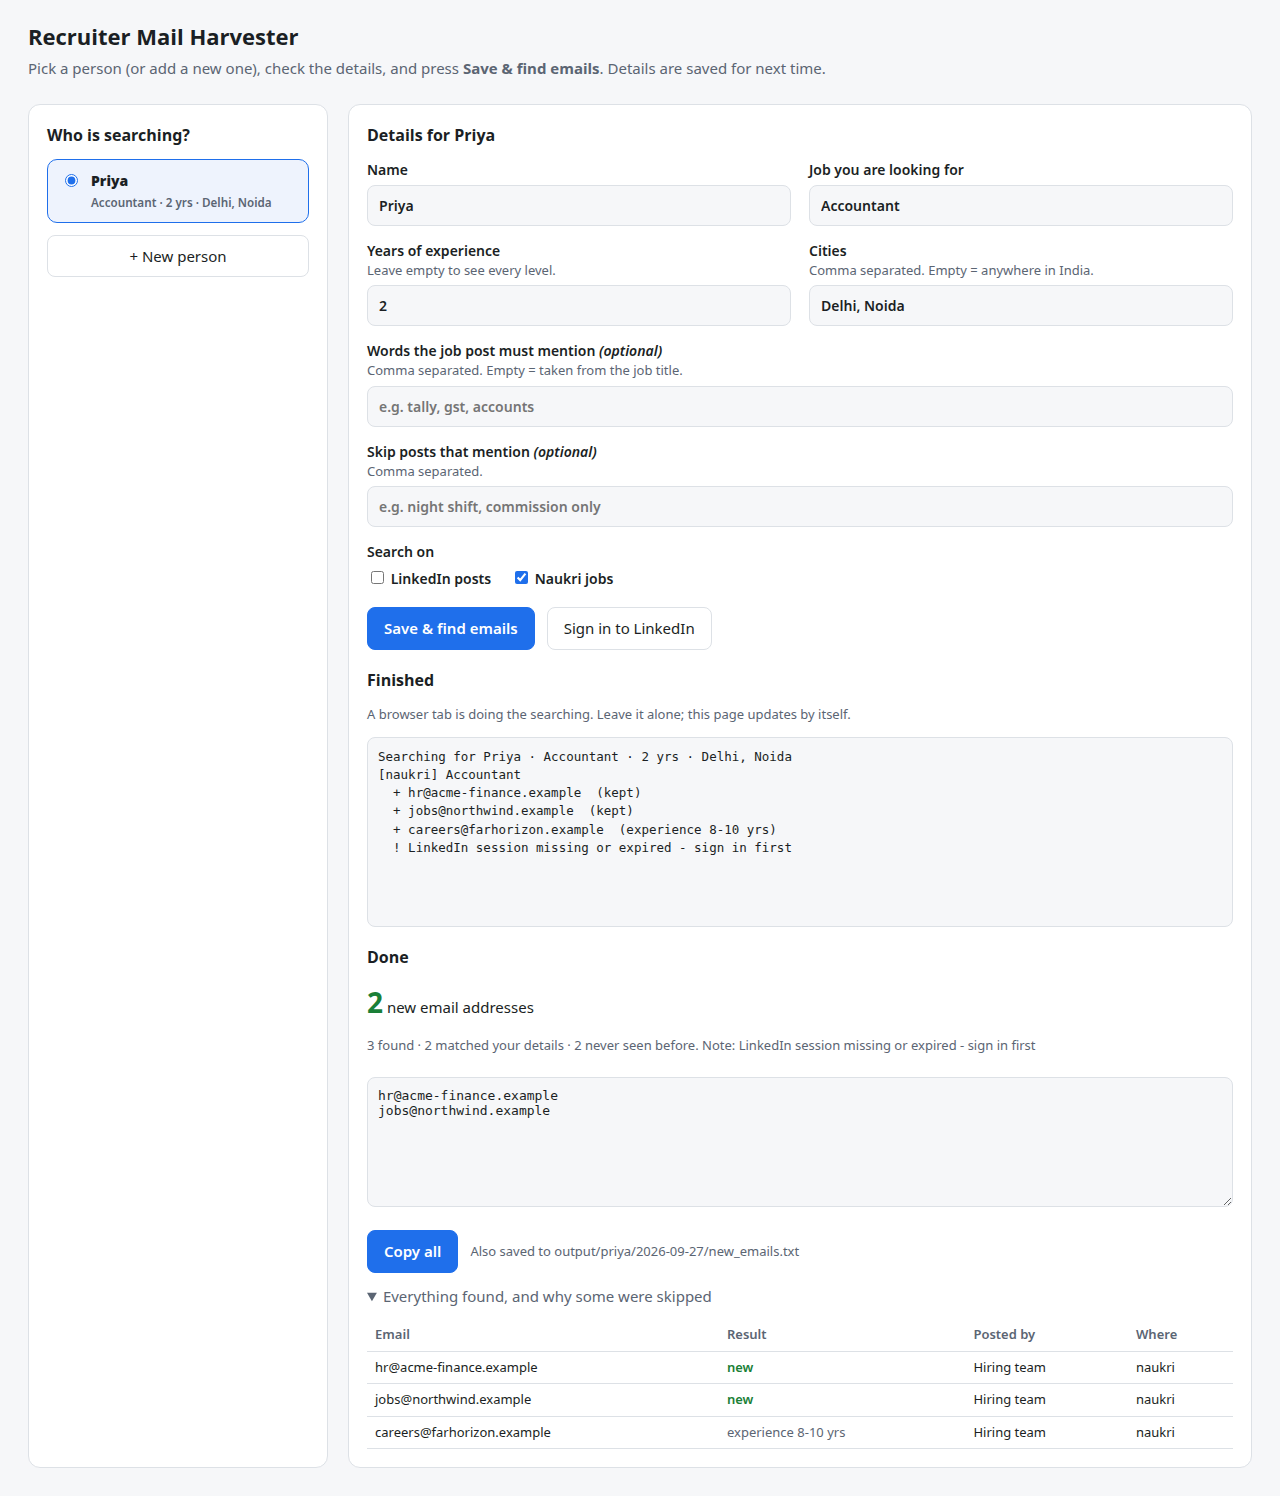
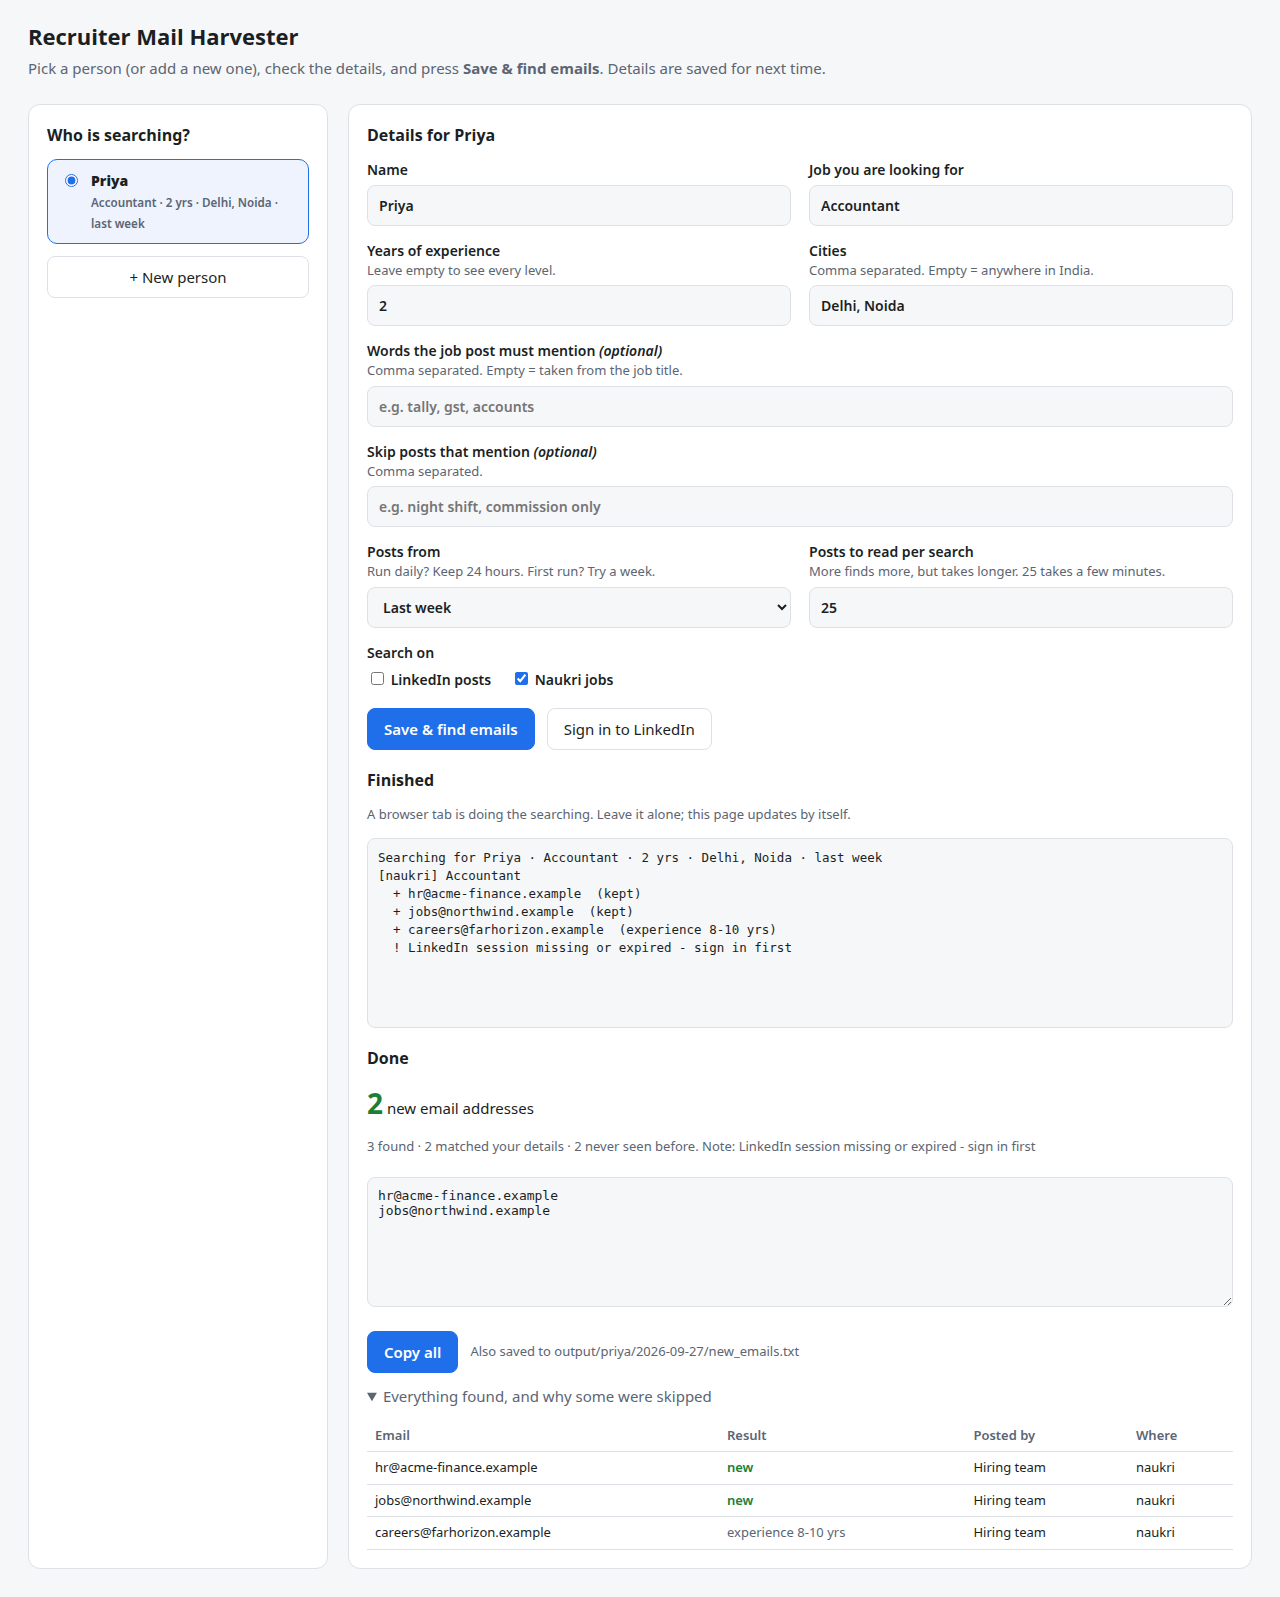
Let each person choose how far back to search and how many posts to read
The setup screen gets two saved fields: Posts from (last 24 hours, week or
month, mapped to LinkedIn's datePosted and Naukri's jobAge) and Posts to
read per search. Both used to be fixed in config.toml, and a longer time
range was pointless while only the newest 25 posts were read.

Naukri only showed its first results page, so it never returned more than
20 jobs whatever the limit. Search now follows /<slug>-jobs-2, -3, ... as
far as the limit needs. LinkedIn scrolls further for larger limits.

Out-of-range saved values fall back to 24 hours and 1-200 posts. The demo
GIF and screenshot are re-recorded with the new fields.

diff --git a/harvester/ui.html b/harvester/ui.html
@@ -42,7 +42,7 @@
   form { display: grid; grid-template-columns: 1fr 1fr; gap: 14px 18px; }
   label { display: block; font-weight: 600; font-size: 14px; }
   label span { display: block; font-weight: 400; color: var(--muted); font-size: 13px; }
-  input[type=text], input[type=number] { width: 100%; margin-top: 5px; padding: 9px 11px; font: inherit;
+  input[type=text], input[type=number], select { width: 100%; margin-top: 5px; padding: 9px 11px; font: inherit;
            color: var(--text); background: var(--bg); border: 1px solid var(--line); border-radius: 8px; }
   input:focus { outline: 2px solid var(--accent); outline-offset: 1px; }
   .full { grid-column: 1 / -1; }
@@ -104,6 +104,18 @@
         <span>Comma separated.</span>
         <input type="text" name="exclude_keywords" placeholder="e.g. night shift, commission only">
       </label>
+      <label>Posts from
+        <span>Run daily? Keep 24 hours. First run? Try a week.</span>
+        <select name="posted_within">
+          <option value="24h">Last 24 hours</option>
+          <option value="week">Last week</option>
+          <option value="month">Last month</option>
+        </select>
+      </label>
+      <label>Posts to read per search
+        <span>More finds more, but takes longer. 25 takes a few minutes.</span>
+        <input type="number" name="posts_per_search" min="5" max="200" step="5" value="25">
+      </label>
       <div class="full">
         <label>Search on</label>
         <div class="checks">
@@ -157,6 +169,7 @@ function describe(p) {
   const bits = [p.role];
   if (p.experience_years != null) bits.push(p.experience_years + " yrs");
   bits.push(p.locations && p.locations.length ? p.locations.join(", ") : "any city");
+  if (p.posted_within && p.posted_within !== "24h") bits.push("last " + p.posted_within);
   return bits.join(" · ");
 }
 
@@ -189,6 +202,8 @@ function fill(p) {
   const src = p ? p.sources : ["linkedin", "naukri"];
   form.src_linkedin.checked = src.includes("linkedin");
   form.src_naukri.checked = src.includes("naukri");
+  form.posted_within.value = p ? p.posted_within : "24h";
+  form.posts_per_search.value = p ? p.posts_per_search : 25;
   $("#msg").textContent = "";
 }
 
@@ -197,7 +212,7 @@ $("#newBtn").onclick = () => { if (!busy) { selected = null; fill(null); clearOu
 function setBusy(on) {
   busy = on;
   for (const b of ["#runBtn", "#loginBtn", "#newBtn"]) $(b).disabled = on;
-  for (const i of form.querySelectorAll("input")) i.disabled = on;
+  for (const i of form.querySelectorAll("input, select")) i.disabled = on;
 }
 
 $("#runBtn").onclick = async () => {
@@ -212,6 +227,8 @@ $("#runBtn").onclick = async () => {
     experience_years: exp === "" ? null : Number(exp),
     locations: split(form.locations.value), skills: split(form.skills.value),
     exclude_keywords: split(form.exclude_keywords.value), sources,
+    posted_within: form.posted_within.value,
+    posts_per_search: Math.max(5, Math.min(200, Number(form.posts_per_search.value) || 25)),
   };
   $("#msg").textContent = "";
   setBusy(true);

diff --git a/harvester/cli.py b/harvester/cli.py
@@ -22,7 +22,7 @@ from pathlib import Path
 from . import extract
 from .browser import browser
 from .filters import Rules
-from .profile import Profile, slug, to_toml
+from .profile import POSTED_WITHIN, Profile, slug, to_toml
 from .sources import Blocked, Post, linkedin, naukri
 from .store import Lead, Store
 
@@ -122,7 +122,8 @@ def report(leads: list[tuple[Lead, bool]], out: Path) -> None:
 def describe(p: Profile) -> str:
     return (f"{p.name} · {p.role}"
             + (f" · {p.experience_years:g} yrs" if p.experience_years is not None else "")
-            + (f" · {', '.join(p.locations)}" if p.locations else " · any city"))
+            + (f" · {', '.join(p.locations)}" if p.locations else " · any city")
+            + f" · {POSTED_WITHIN[p.posted_within]['label']}")
 
 
 async def harvest(page, setup: Setup, store: Store, sources: set[str], limit: int,
@@ -131,8 +132,8 @@ async def harvest(page, setup: Setup, store: Store, sources: set[str], limit: in
     found: list[tuple[Lead, bool]] = []
     p = setup.profile
     plan = [
-        ("naukri", naukri, p.naukri_search(), {"days": setup.search.get("naukri_days", 1)}),
-        ("linkedin", linkedin, p.linkedin_search(), {}),
+        ("naukri", naukri, p.naukri_search(), {"days": POSTED_WITHIN[p.posted_within]["naukri_days"]}),
+        ("linkedin", linkedin, p.linkedin_search(), {"within": POSTED_WITHIN[p.posted_within]["linkedin"]}),
     ]
     for name, source, queries, extra in plan:
         if name not in sources:
@@ -161,7 +162,7 @@ async def run(args, setup: Setup, store: Store) -> list[tuple[Lead, bool]]:
     async with browser(headless=args.headless) as ctx:
         page = ctx.pages[0] if ctx.pages else await ctx.new_page()
         return await harvest(page, setup, store, args.sources,
-                             args.limit or setup.search.get("limit", 25))
+                             args.limit or setup.profile.posts_per_search)
 
 
 async def sign_in(page, minutes: int = 10) -> bool:
@@ -235,7 +236,7 @@ def main(argv: list[str] | None = None) -> None:
     r = sub.add_parser("run", help="search the portals")
     r.add_argument("-p", "--profile", help="profile name from profiles/ (default: the last one used)")
     r.add_argument("--sources", default="naukri,linkedin", help="comma list: naukri,linkedin")
-    r.add_argument("--limit", type=int, help="posts per query (overrides config)")
+    r.add_argument("--limit", type=int, help="posts per search (overrides the saved value)")
     r.add_argument("--headless", action="store_true", help="hide the browser window (Naukri refuses headless)")
 
     s = sub.add_parser("scan", help="extract from a text file ('-' for stdin)")

diff --git a/harvester/sources/naukri.py b/harvester/sources/naukri.py
@@ -12,29 +12,43 @@ from playwright.async_api import Page
 
 from . import Blocked, Post, polite_pause
 
-SEARCH_URL = "https://www.naukri.com/{slug}-jobs?jobAge={age}"
+SEARCH_URL = "https://www.naukri.com/{slug}-jobs{page}?jobAge={age}"
+PAGE_SIZE = 20  # Naukri lists 20 jobs per results page
 JOB_LINK = "a.title"
 JD_BODY = "[class*=job-desc-container]"
 COMPANY = "[class*=comp-name] a, [class*=comp-name]"
 
 
-def search_url(query: str, days: int) -> str:
+def search_url(query: str, days: int, page: int = 1) -> str:
     slug = quote(re.sub(r"[^a-z0-9]+", "-", query.lower()).strip("-"))
-    return SEARCH_URL.format(slug=slug, age=days)
+    return SEARCH_URL.format(slug=slug, age=days, page=f"-{page}" if page > 1 else "")
+
+
+async def _job_links(page: Page, query: str, days: int, limit: int) -> list[str]:
+    """Links from as many results pages as the limit needs (page 2 is /<slug>-jobs-2)."""
+    links: list[str] = []
+    for n in range(1, (limit - 1) // PAGE_SIZE + 2):
+        if n > 1:
+            await polite_pause()
+        await page.goto(search_url(query, days, n), wait_until="domcontentloaded")
+        try:
+            await page.wait_for_selector(JOB_LINK, timeout=20_000)
+        except Exception:
+            # Naukri's CDN answers headless Chrome with a bare "Access Denied" page.
+            if "Access Denied" in await page.title():
+                raise Blocked("Naukri blocked this browser (Access Denied) - run without --headless")
+            break  # no (more) results
+        found = await page.eval_on_selector_all(JOB_LINK, "els => els.map(a => a.href)")
+        links += [u for u in found if u not in links]
+        if len(links) >= limit or len(found) < PAGE_SIZE:
+            break
+    return links[:limit]
 
 
 async def posts(page: Page, query: str, limit: int, days: int = 1) -> AsyncIterator[Post]:
-    await page.goto(search_url(query, days), wait_until="domcontentloaded")
-    try:
-        await page.wait_for_selector(JOB_LINK, timeout=20_000)
-    except Exception:
-        # Naukri's CDN answers headless Chrome with a bare "Access Denied" page.
-        if "Access Denied" in await page.title():
-            raise Blocked("Naukri blocked this browser (Access Denied) - run without --headless")
-        return  # a query with no results
-    links = await page.eval_on_selector_all(JOB_LINK, "els => els.map(a => a.href)")
+    links = await _job_links(page, query, days, limit)
 
-    for url in links[:limit]:
+    for url in links:
         await polite_pause()
         try:
             await page.goto(url, wait_until="domcontentloaded")

diff --git a/harvester/profile.py b/harvester/profile.py
@@ -34,6 +34,13 @@ _CITY_RX = {city: re.compile(r"\b(" + "|".join(map(re.escape, names)) + r")\b", 
             for city, names in CITIES.items()}
 _ANYWHERE = re.compile(r"\b(remote|work from home|wfh|pan india|anywhere in india)\b", re.I)
 
+# How far back to look, in each portal's own terms. Both portals offer these three.
+POSTED_WITHIN = {
+    "24h": {"label": "last 24 hours", "linkedin": "past-24h", "naukri_days": 1},
+    "week": {"label": "last week", "linkedin": "past-week", "naukri_days": 7},
+    "month": {"label": "last month", "linkedin": "past-month", "naukri_days": 30},
+}
+
 _GENERIC_TITLE_WORDS = {
     "senior", "junior", "sr", "jr", "lead", "head", "associate", "assistant", "trainee",
     "intern", "executive", "manager", "officer", "engineer", "developer", "specialist",
@@ -75,6 +82,13 @@ class Profile:
     linkedin_queries: list[str] = field(default_factory=list)
     naukri_queries: list[str] = field(default_factory=list)
     sources: list[str] = field(default_factory=lambda: ["linkedin", "naukri"])
+    posted_within: str = "24h"          # "24h", "week" or "month"
+    posts_per_search: int = 25
+
+    def __post_init__(self):
+        if self.posted_within not in POSTED_WITHIN:
+            self.posted_within = "24h"
+        self.posts_per_search = max(1, min(int(self.posts_per_search or 25), 200))
 
     @classmethod
     def load(cls, path: Path) -> "Profile":
@@ -157,4 +171,8 @@ def to_toml(p: Profile) -> str:
         f"naukri_queries = {arr(p.naukri_queries)}\n"
         f"# Portals to search: linkedin, naukri.\n"
         f"sources = {arr(p.sources)}\n"
+        f"# How far back to look: 24h, week or month.\n"
+        f'posted_within = "{p.posted_within}"\n'
+        f"# Posts / jobs read per search. More finds more but takes longer.\n"
+        f"posts_per_search = {p.posts_per_search}\n"
     )

diff --git a/harvester/sources/linkedin.py b/harvester/sources/linkedin.py
@@ -1,4 +1,4 @@
-"""LinkedIn: content search for hiring posts from the last 24 hours.
+"""LinkedIn: content search for recent hiring posts (last 24 hours, week or month).
 
 Needs a logged-in session: run `harvest login` once and sign in by hand. The
 password is never seen by this tool; only the browser profile keeps the cookie.
@@ -15,7 +15,7 @@ from playwright.async_api import Page
 from . import Blocked, Post, polite_pause
 
 SEARCH_URL = ("https://www.linkedin.com/search/results/content/"
-              "?keywords={q}&datePosted=%22past-24h%22&sortBy=%22date_posted%22")
+              "?keywords={q}&datePosted=%22{within}%22&sortBy=%22date_posted%22")
 POST = "[role=listitem]"
 
 
@@ -39,13 +39,18 @@ async def _load_more(page: Page, rounds: int) -> None:
         await page.wait_for_timeout(1500)
 
 
-async def posts(page: Page, query: str, limit: int, scroll_rounds: int = 8) -> AsyncIterator[Post]:
-    await page.goto(SEARCH_URL.format(q=quote(query)), wait_until="domcontentloaded")
+def search_url(query: str, within: str = "past-24h") -> str:
+    return SEARCH_URL.format(q=quote(query), within=within)
+
+
+async def posts(page: Page, query: str, limit: int, within: str = "past-24h") -> AsyncIterator[Post]:
+    await page.goto(search_url(query, within), wait_until="domcontentloaded")
     await page.wait_for_timeout(5000)
     if "/login" in page.url or "/authwall" in page.url or "/checkpoint" in page.url:
         raise Blocked("LinkedIn session missing or expired - run `harvest login`")
 
-    await _load_more(page, scroll_rounds)
+    # One wheel round loads roughly three posts; scroll enough to reach the limit.
+    await _load_more(page, min(60, max(8, limit // 3 + 2)))
     await _expand_all(page)
     await page.wait_for_timeout(1000)
 

diff --git a/tests/test_profile.py b/tests/test_profile.py
@@ -55,7 +55,8 @@ def test_generated_queries():
 
 def test_toml_round_trip(tmp_path):
     p = Profile(name="A", role="Product Manager", experience_years=7, locations=["Noida"],
-                skills=["product manager"], exclude_keywords=["project manager"], sources=["naukri"])
+                skills=["product manager"], exclude_keywords=["project manager"], sources=["naukri"],
+                posted_within="week", posts_per_search=40)
     f = tmp_path / "pm.toml"
     f.write_text(to_toml(p))
     assert Profile.load(f) == p
@@ -79,3 +80,22 @@ def test_non_it_examples():
 def test_every_example_profile_loads():
     for path in (ROOT / "examples" / "profiles").glob("*.toml"):
         assert Profile.load(path).role
+
+
+def test_posted_within_maps_to_each_portal():
+    from harvester.profile import POSTED_WITHIN
+    from harvester.sources import linkedin, naukri
+    assert "past-week" in linkedin.search_url("hiring accountant", POSTED_WITHIN["week"]["linkedin"])
+    assert naukri.search_url("Accountant", POSTED_WITHIN["month"]["naukri_days"]).endswith("jobAge=30")
+    assert Profile(name="x", role="y").posted_within == "24h"
+
+
+def test_bad_saved_values_fall_back_safely():
+    p = Profile(name="x", role="y", posted_within="year", posts_per_search=5000)
+    assert (p.posted_within, p.posts_per_search) == ("24h", 200)
+
+
+def test_naukri_page_urls():
+    from harvester.sources import naukri
+    assert naukri.search_url("Sales Executive", 7) == "https://www.naukri.com/sales-executive-jobs?jobAge=7"
+    assert naukri.search_url("Sales Executive", 7, 3) == "https://www.naukri.com/sales-executive-jobs-3?jobAge=7"

diff --git a/harvester/ui.py b/harvester/ui.py
@@ -81,7 +81,7 @@ async def run_screen(config_path: Path) -> None:
             work = await ctx.new_page()
             try:
                 found = await cli.harvest(work, setup, store, set(profile.sources),
-                                          setup.search.get("limit", 25), log_and_note)
+                                          profile.posts_per_search, log_and_note)
             finally:
                 await work.close()
             new_emails = cli.save_outputs(found, setup.out_dir)

diff --git a/scripts/record_demo.py b/scripts/record_demo.py
@@ -110,7 +110,8 @@ async def driver():
     await type_in(page, "[name=role]", "Accountant")
     await type_in(page, "[name=experience_years]", "2")
     await type_in(page, "[name=locations]", "Delhi, Noida")
-    await asyncio.sleep(0.6)
+    await move(page, "[name=posted_within]"); await page.select_option("[name=posted_within]", "week")
+    await asyncio.sleep(0.8)
     await cap(page, "2 · Press Save & find emails")
     await click(page, "#runBtn")
     await scroll_to(page, 420)

diff --git a/README.md b/README.md
@@ -17,7 +17,7 @@ Recruiters post things like *"Hiring Accountant, Tally/GST, 1-3 yrs, Noida, shar
 This tool does that for you:
 
 1. **You describe what you want**: job title, years of experience, cities. The details are saved.
-2. **It searches** LinkedIn posts from the last 24 hours and today's Naukri jobs for that title, in a real Chrome window.
+2. **It searches** LinkedIn posts and Naukri jobs for that title, from the last 24 hours, week or month (your choice), in a real Chrome window.
 3. **It keeps only matching posts**: right job, right experience range, right city. It skips job seekers, US staffing agencies, "job support" spam and jobs abroad.
 4. **It shows the new addresses** with a *Copy all* button. It also saves them to a text file, and remembers them so they are never shown as new again.
 
@@ -64,11 +64,14 @@ The addresses are also saved to `output/<name>/<date>/new_emails.txt`.
 | Cities | Hides posts naming only other cities. Gurgaon = Gurugram, Bangalore = Bengaluru. "Remote" and posts with no city are kept. Leave empty for anywhere. | Delhi, Noida |
 | Words the post must mention | Optional. Leave empty and the job title is used. | tally, gst, accounts |
 | Skip posts that mention | Optional deal-breakers | commission only, night shift |
+| Posts from | How far back to look, on both portals: last 24 hours, last week or last month. Running it daily? Keep 24 hours. First run? Try a week. | Last week |
+| Posts to read per search | More finds more addresses but takes longer. Naukri is read page by page, 20 jobs a page. | 25 |
 | Search on | LinkedIn posts, Naukri jobs, or both | |
 
 ## Good to know
 
 - **Your password is never seen by this tool.** You sign in to LinkedIn yourself, in the tool's own Chrome profile (`~/.local/share/recruiter-mail-harvester/profile`). Your everyday Chrome is not touched.
+- **How far back it looks is up to you.** The default is the last 24 hours, meant for a daily run. The tool remembers every address, so a daily 24-hour run never repeats one. For a first run, pick *Last week* and raise *Posts to read per search*. Naukri had about 16,000 accountant jobs in a week against about 800 in a day.
 - **Run it about once a day.** LinkedIn limits automated use and returns fewer results after several searches in a row. Heavy use can get an account restricted.
 - **Leave the search tab alone** while it works. Naukri refuses hidden (headless) browsers, so the window has to stay visible.
 - **Most Naukri jobs have no email in them.** In testing, about 2 in 30 did. LinkedIn posts are the richer source.
@@ -82,7 +85,7 @@ Everything the screen does is also a command:
 |---|---|
 | `harvest` | Opens the setup screen (same as `harvest ui`) |
 | `harvest run -p priya` | Searches with a saved person's details, no screen. Without `-p`, uses the last person. |
-| `harvest run -p priya --sources naukri --limit 10` | One portal only, 10 posts per search |
+| `harvest run -p priya --sources naukri --limit 10` | One portal only, 10 posts per search (overrides the saved number) |
 | `harvest login` | Sign in to LinkedIn without the screen |
 | `harvest init` | Create a person by answering questions in the terminal |
 | `harvest profiles` | List saved people |
@@ -102,9 +105,11 @@ exclude_keywords = ["commission only"]
 linkedin_queries = []     # empty = made from the job title
 naukri_queries = []
 sources = ["naukri", "linkedin"]
+posted_within = "24h"     # 24h, week or month
+posts_per_search = 25
 ```
 
-Rules that apply to everyone are in [`config.toml`](config.toml): how many posts to read per search, and the labelled patterns that drop US staffing posts, jobs abroad, job seekers and "job support" spam. Every skipped address is saved with the rule *and the words that triggered it*, for example `experience 8-12 yrs`, `location hyderabad` or `job seeker: "#OpenToWork"`. A rule that misfires is easy to spot.
+Rules that apply to everyone are in [`config.toml`](config.toml): the labelled patterns that drop US staffing posts, jobs abroad, job seekers and "job support" spam. Every skipped address is saved with the rule *and the words that triggered it*, for example `experience 8-12 yrs`, `location hyderabad` or `job seeker: "#OpenToWork"`. A rule that misfires is easy to spot.
 
 ## How it works
 
@@ -136,7 +141,7 @@ harvester/
     └── naukri.py     # job search → open each job → description
 examples/profiles/    # sample people, IT and non-IT
 scripts/              # record_demo.py + build_gif.py: regenerate docs/demo.gif
-tests/                # 26 tests, no network needed
+tests/                # 29 tests, no network needed
 ```
 
 The screen is plain HTML shown in the Chrome window Playwright already drives. It talks to Python through Playwright's exposed functions, so there is no web server and no GUI toolkit to install, and it looks the same on Linux, Windows and macOS.
